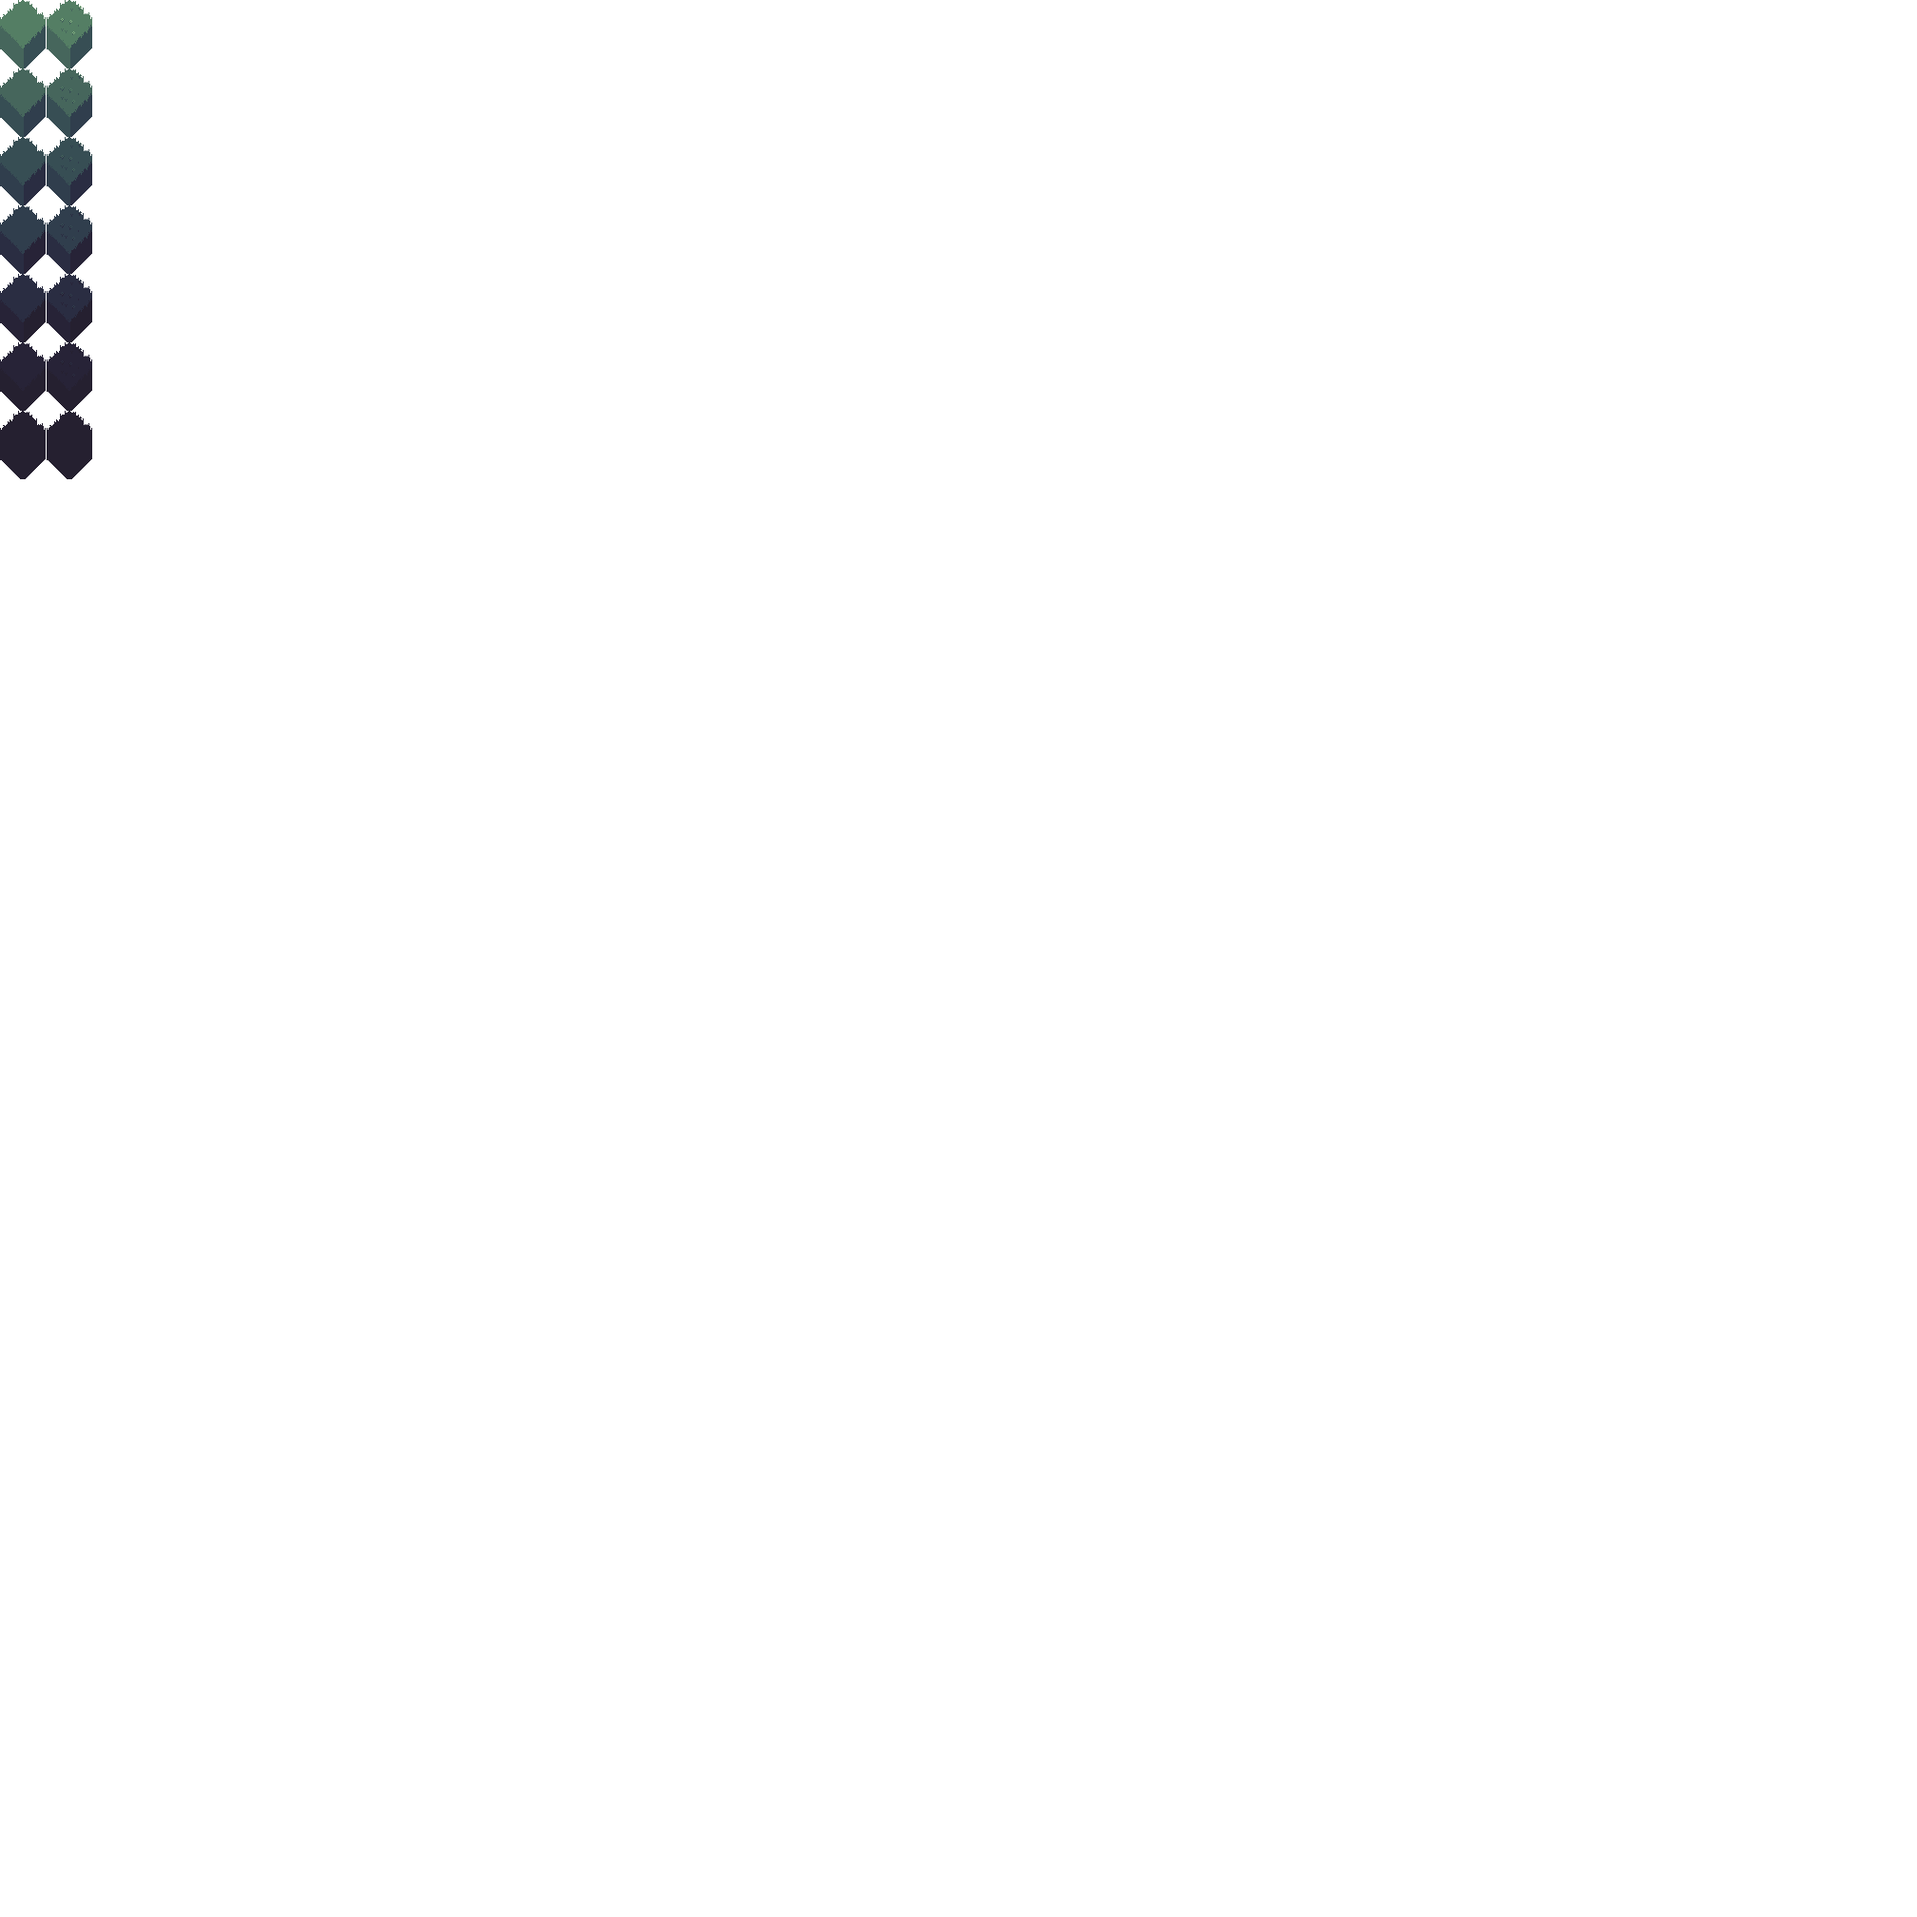
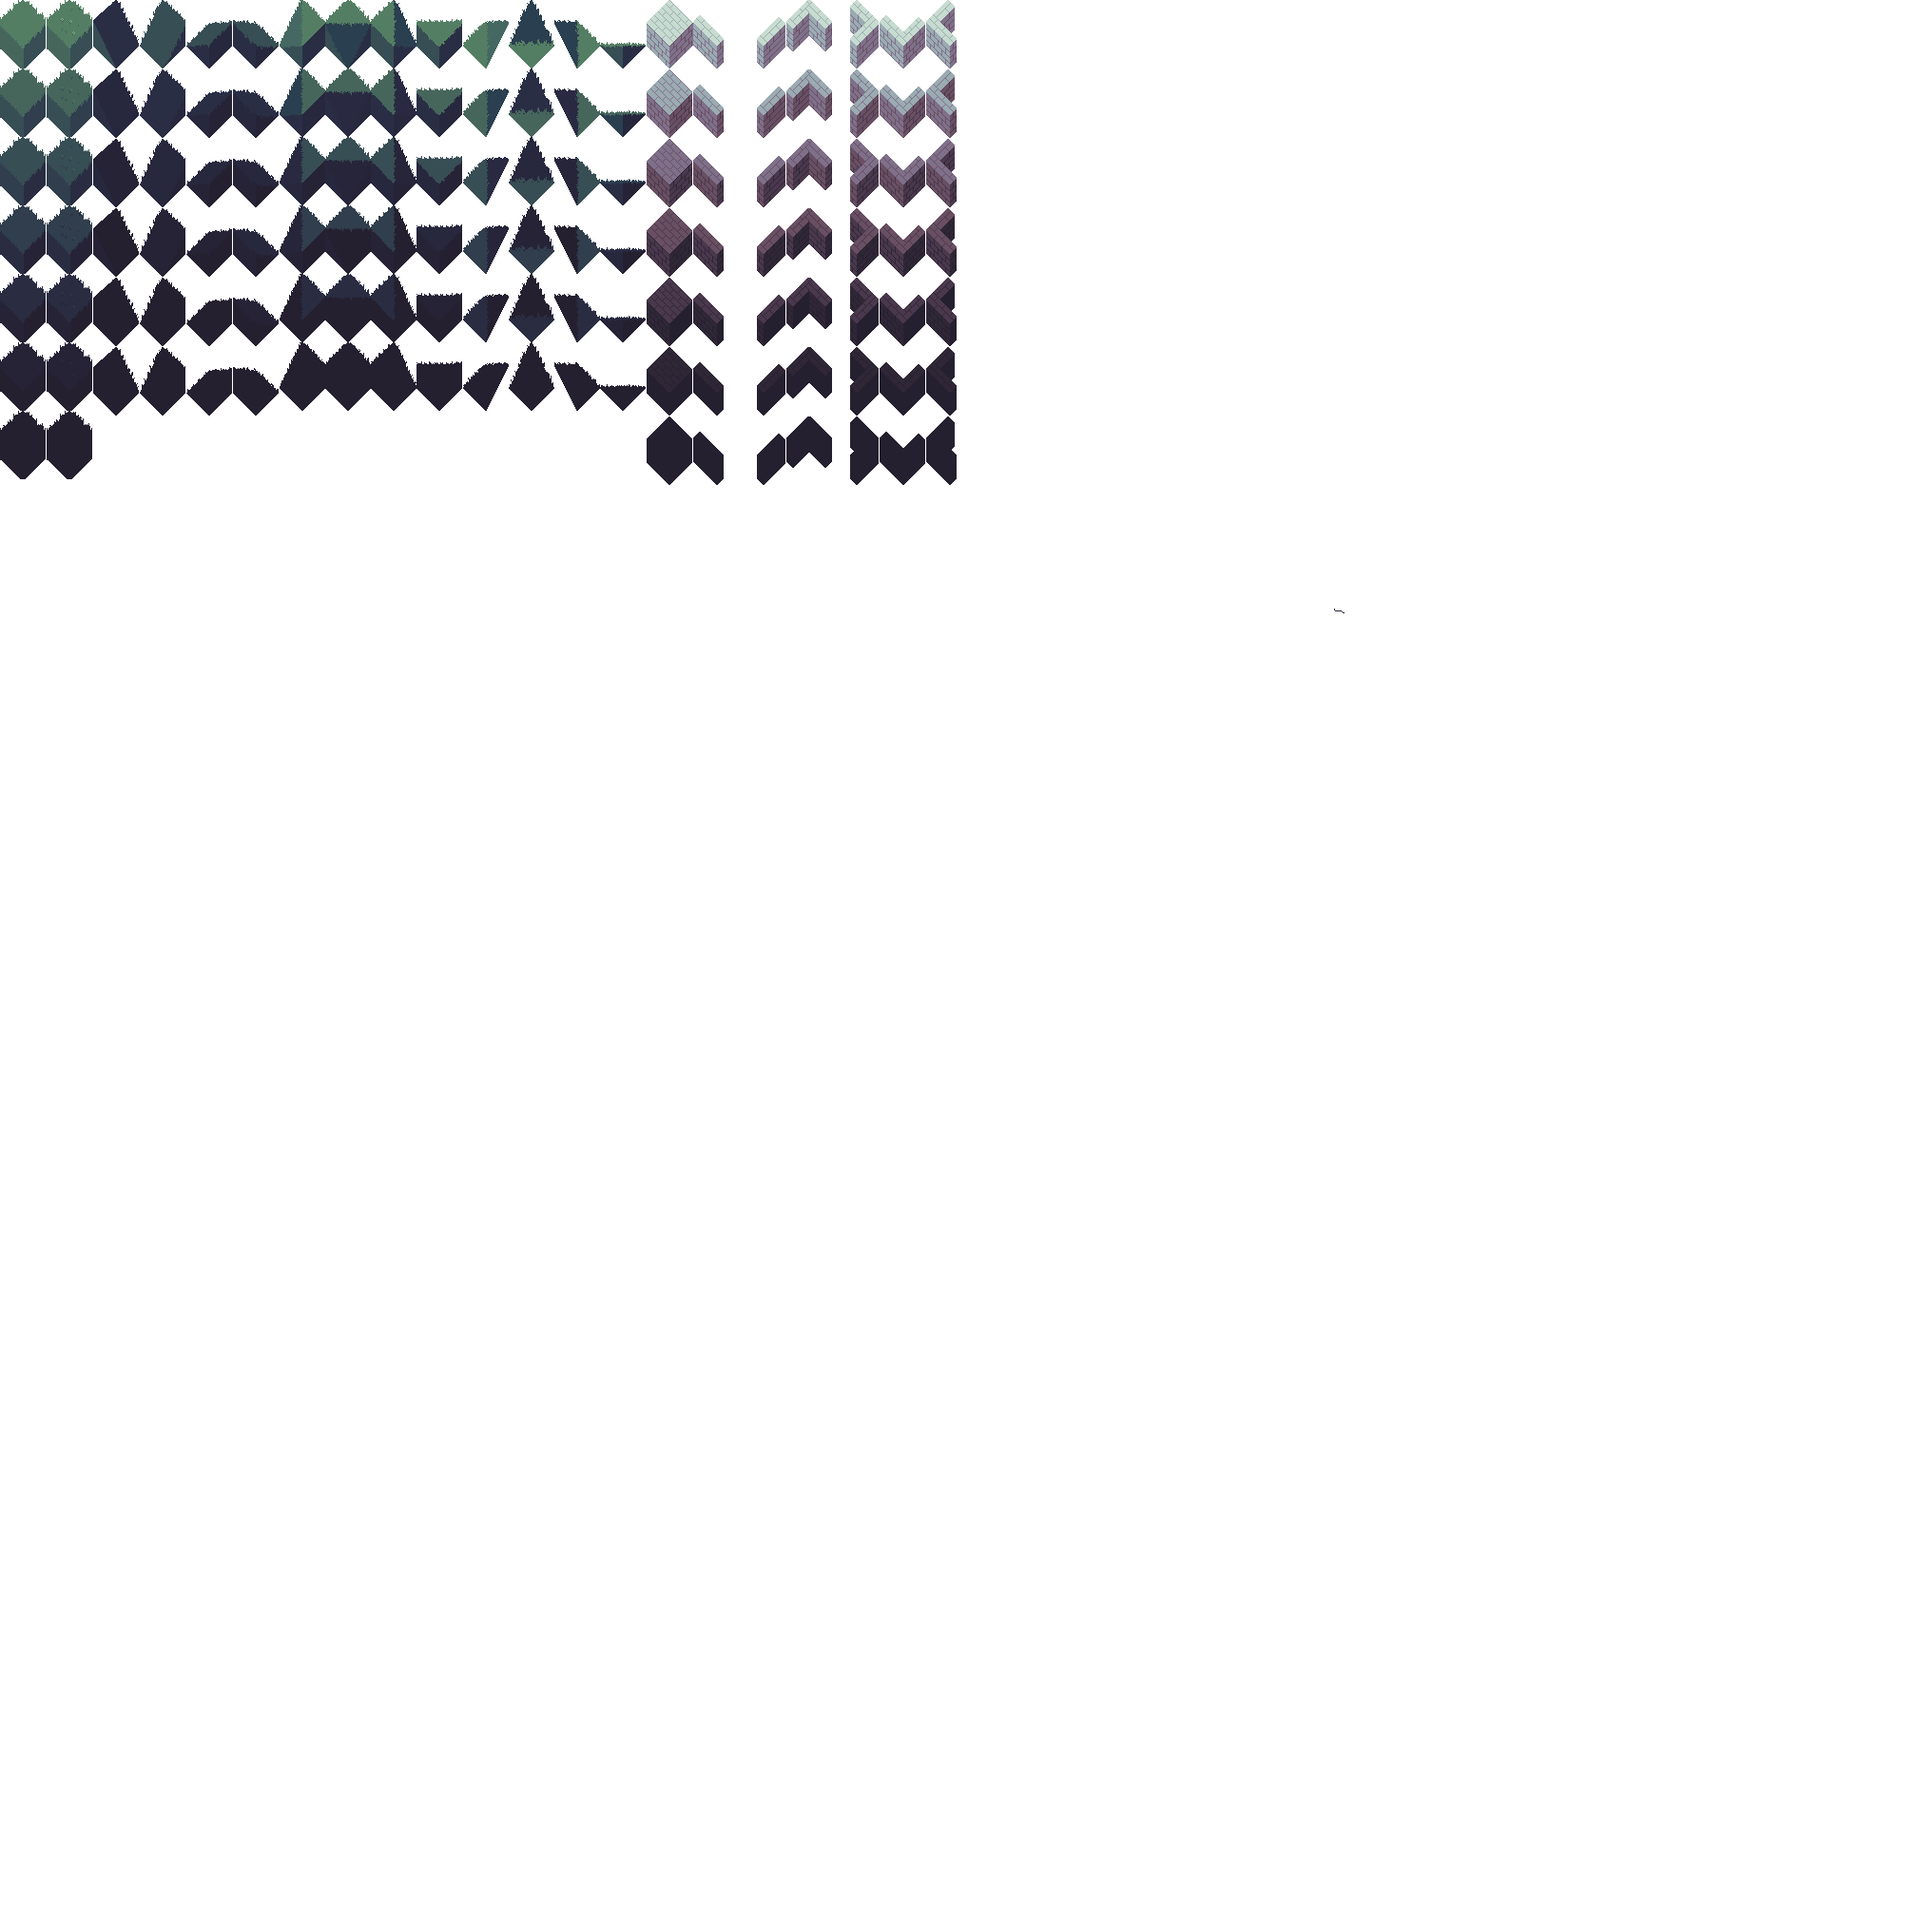
v0.5.383

Changed region(s): [[0.0312, 0.0, 0.5, 0.25]]

diff --git a/gamestream_flutter/lib/isometric/nodes/render/atlas_src_x.dart b/gamestream_flutter/lib/isometric/nodes/render/atlas_src_x.dart
@@ -1,30 +1,36 @@
 
 import 'render_constants.dart';
 
+
+
 class AtlasSrcX {
+  static const Sprite_Width = 48;
+  /// Padded width each sprite is separated by one empty pixel
+  static const Width = Sprite_Width + 1;
   static const Node_Grass = 0.0;
-  static const Node_Grass_Flowers = Node_Grass + 1;
-  static const Node_Grass_Slope_North = 7925.0;
-  static const Node_Grass_Slope_East = 7877.0;
-  static const Node_Grass_Slope_South = 7829.0;
-  static const Node_Grass_Slope_West = 7781.0;
-  static const Node_Grass_Slope_Inner_North_East = 9946.0;
-  static const Node_Grass_Slope_Inner_South_East = 9898.0;
-  static const Node_Grass_Slope_Inner_South_West = 10042.0;
-  static const Node_Grass_Slope_Inner_North_West = 9994.0;
-  static const Node_Grass_Slope_Outer_North_East = 8440.0;
-  static const Node_Grass_Slope_Outer_South_East = 8392.0;
-  static const Node_Grass_Slope_Outer_South_West = 8536.0;
-  static const Node_Grass_Slope_Outer_North_West = 8488.0;
-  static const Node_Brick = 11377.0;
-  static const Node_Brick_Slope_North = 7394.0;
+  static const Node_Grass_Flowers = Node_Grass + Width;
+  static const Node_Grass_Slope_North = Node_Grass_Flowers + Width;
+  static const Node_Grass_Slope_East = Node_Grass_Slope_North + Width;
+  static const Node_Grass_Slope_South = Node_Grass_Slope_East + Width;
+  static const Node_Grass_Slope_West = Node_Grass_Slope_South + Width;
+  static const Node_Grass_Slope_Inner_South_East = Node_Grass_Slope_West + Width;
+  static const Node_Grass_Slope_Inner_North_East = Node_Grass_Slope_Inner_South_East + Width;
+  static const Node_Grass_Slope_Inner_North_West = Node_Grass_Slope_Inner_North_East + Width;
+  static const Node_Grass_Slope_Inner_South_West = Node_Grass_Slope_Inner_North_West + Width;
+  static const Node_Grass_Slope_Outer_South_East = Node_Grass_Slope_Inner_South_West + Width;
+  static const Node_Grass_Slope_Outer_North_East = Node_Grass_Slope_Outer_South_East + Width;
+  static const Node_Grass_Slope_Outer_North_West = Node_Grass_Slope_Outer_North_East + Width;
+  static const Node_Grass_Slope_Outer_South_West = Node_Grass_Slope_Outer_North_West + Width;
+  static const Node_Brick = 680.0;
+  static const Node_Brick_Half_North = Node_Brick + Sprite_Width;
+  static const Node_Brick_Half_East = Node_Brick_Half_North + Sprite_Width;
+  static const Node_Brick_Half_South = Node_Brick_Half_North;
+  static const Node_Brick_Half_West = Node_Brick_Half_East;
+  static const Node_Brick_Slope_North = Node_Brick + Sprite_Width;
   static const Node_Brick_Slope_East = 7443.0;
   static const Node_Brick_Slope_South = 7492.0;
   static const Node_Brick_Slope_West = 7541.0;
-  static const Node_Brick_Half_North = 11377.0 + srcIndexX2;
-  static const Node_Brick_Half_East = 11377.0 + srcIndexX1;
-  static const Node_Brick_Half_South = 11377.0 + srcIndexX2;
-  static const Node_Brick_Half_West = 11377.0 + srcIndexX1;
+
   static const Node_Brick_Corner_Top = 11524.0;
   static const Node_Brick_Corner_Right = Node_Brick_Corner_Top + spriteWidthPadded;
   static const Node_Brick_Corner_Bottom = Node_Brick_Corner_Right + spriteWidthPadded;

diff --git a/gamestream_flutter/lib/modules/core/init.dart b/gamestream_flutter/lib/modules/core/init.dart
@@ -15,15 +15,6 @@ final isLocalHost = Uri.base.host == 'localhost'; // TODO move to lemon-engine
 Future init() async {
   await loadSharedPreferences();
   initializeEventListeners();
-  // loadImage('images/pixel.png').then((value) async {
-  //    final data = await value.toByteData();
-  //    if (data == null) return;
-  //    final bytes = Uint8List.view(data.buffer);
-  //    print("pixel-data");
-  //    final buffer = await ImmutableBuffer.fromUint8List(Uint8List(4));
-  //    ImageDescriptor.raw(buffer, width: 1, height: 1, pixelFormat: PixelFormat.rgba8888);
-  //    print(bytes);
-  // });
   Images.mapAtlas = await loadImage('images/atlas-map.png');
   Images.blocks = await loadImage('images/atlas-blocks.png');
   Images.characters = await loadImage('images/atlas-characters.png');

diff --git a/bleed-common/lib/version.dart b/bleed-common/lib/version.dart
@@ -1,1 +1,1 @@
-const version = 'v0.5.382';
+const version = 'v0.5.383';

diff --git a/bleed-server/bin/common/version.dart b/bleed-server/bin/common/version.dart
@@ -1,1 +1,1 @@
-const version = 'v0.5.382';
+const version = 'v0.5.383';
